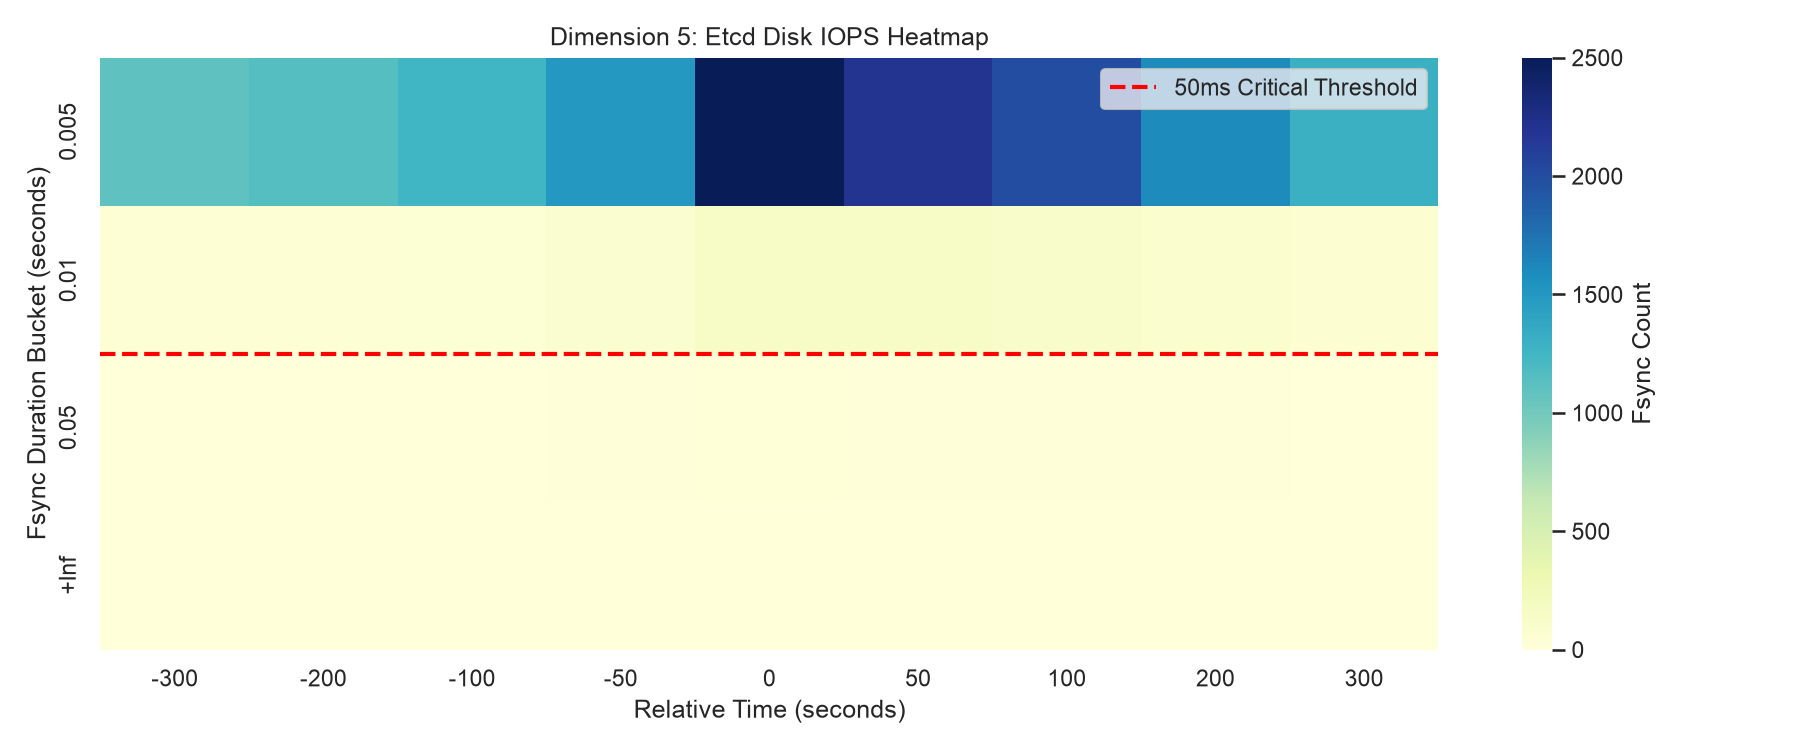
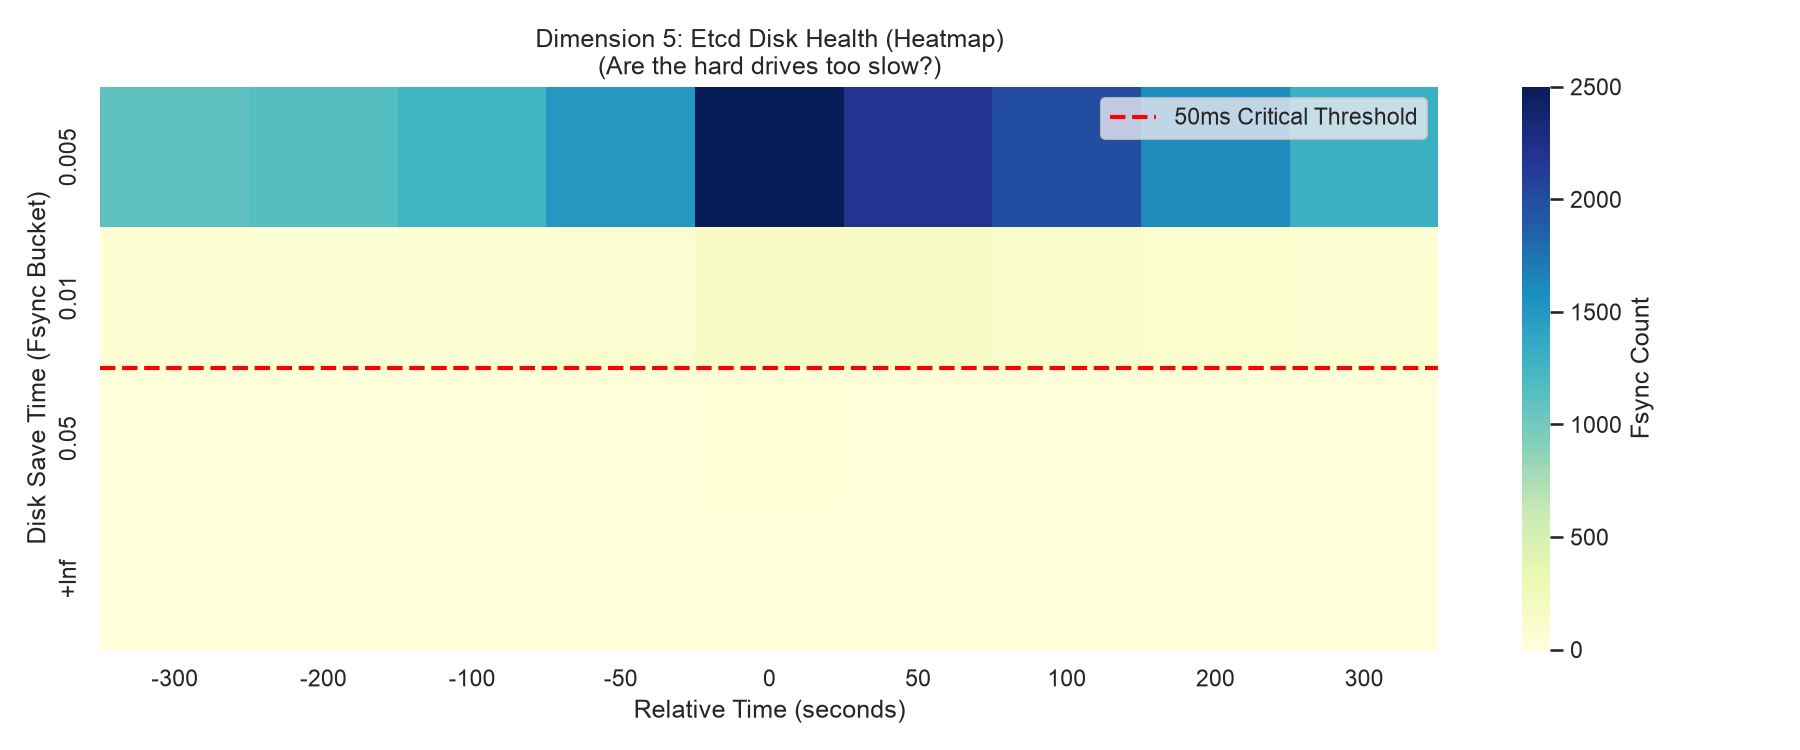
Update etcd heatmap labels to be more accessible

diff --git a/scripts/generate_dashboard.py b/scripts/generate_dashboard.py
@@ -178,8 +178,8 @@ def generate_etcd_heatmap(data, output_dir):
         plt.legend()
         
     ax.set_xlabel('Relative Time (seconds)')
-    ax.set_ylabel('Fsync Duration Bucket (seconds)')
-    plt.title('Dimension 5: Etcd Disk IOPS Heatmap')
+    ax.set_ylabel('Disk Save Time (Fsync Bucket)')
+    plt.title('Dimension 5: Etcd Disk Health (Heatmap)\n(Are the hard drives too slow?)')
     plt.tight_layout()
     plt.savefig(os.path.join(output_dir, 'dim5_etcd_heatmap.png'))
     plt.close()